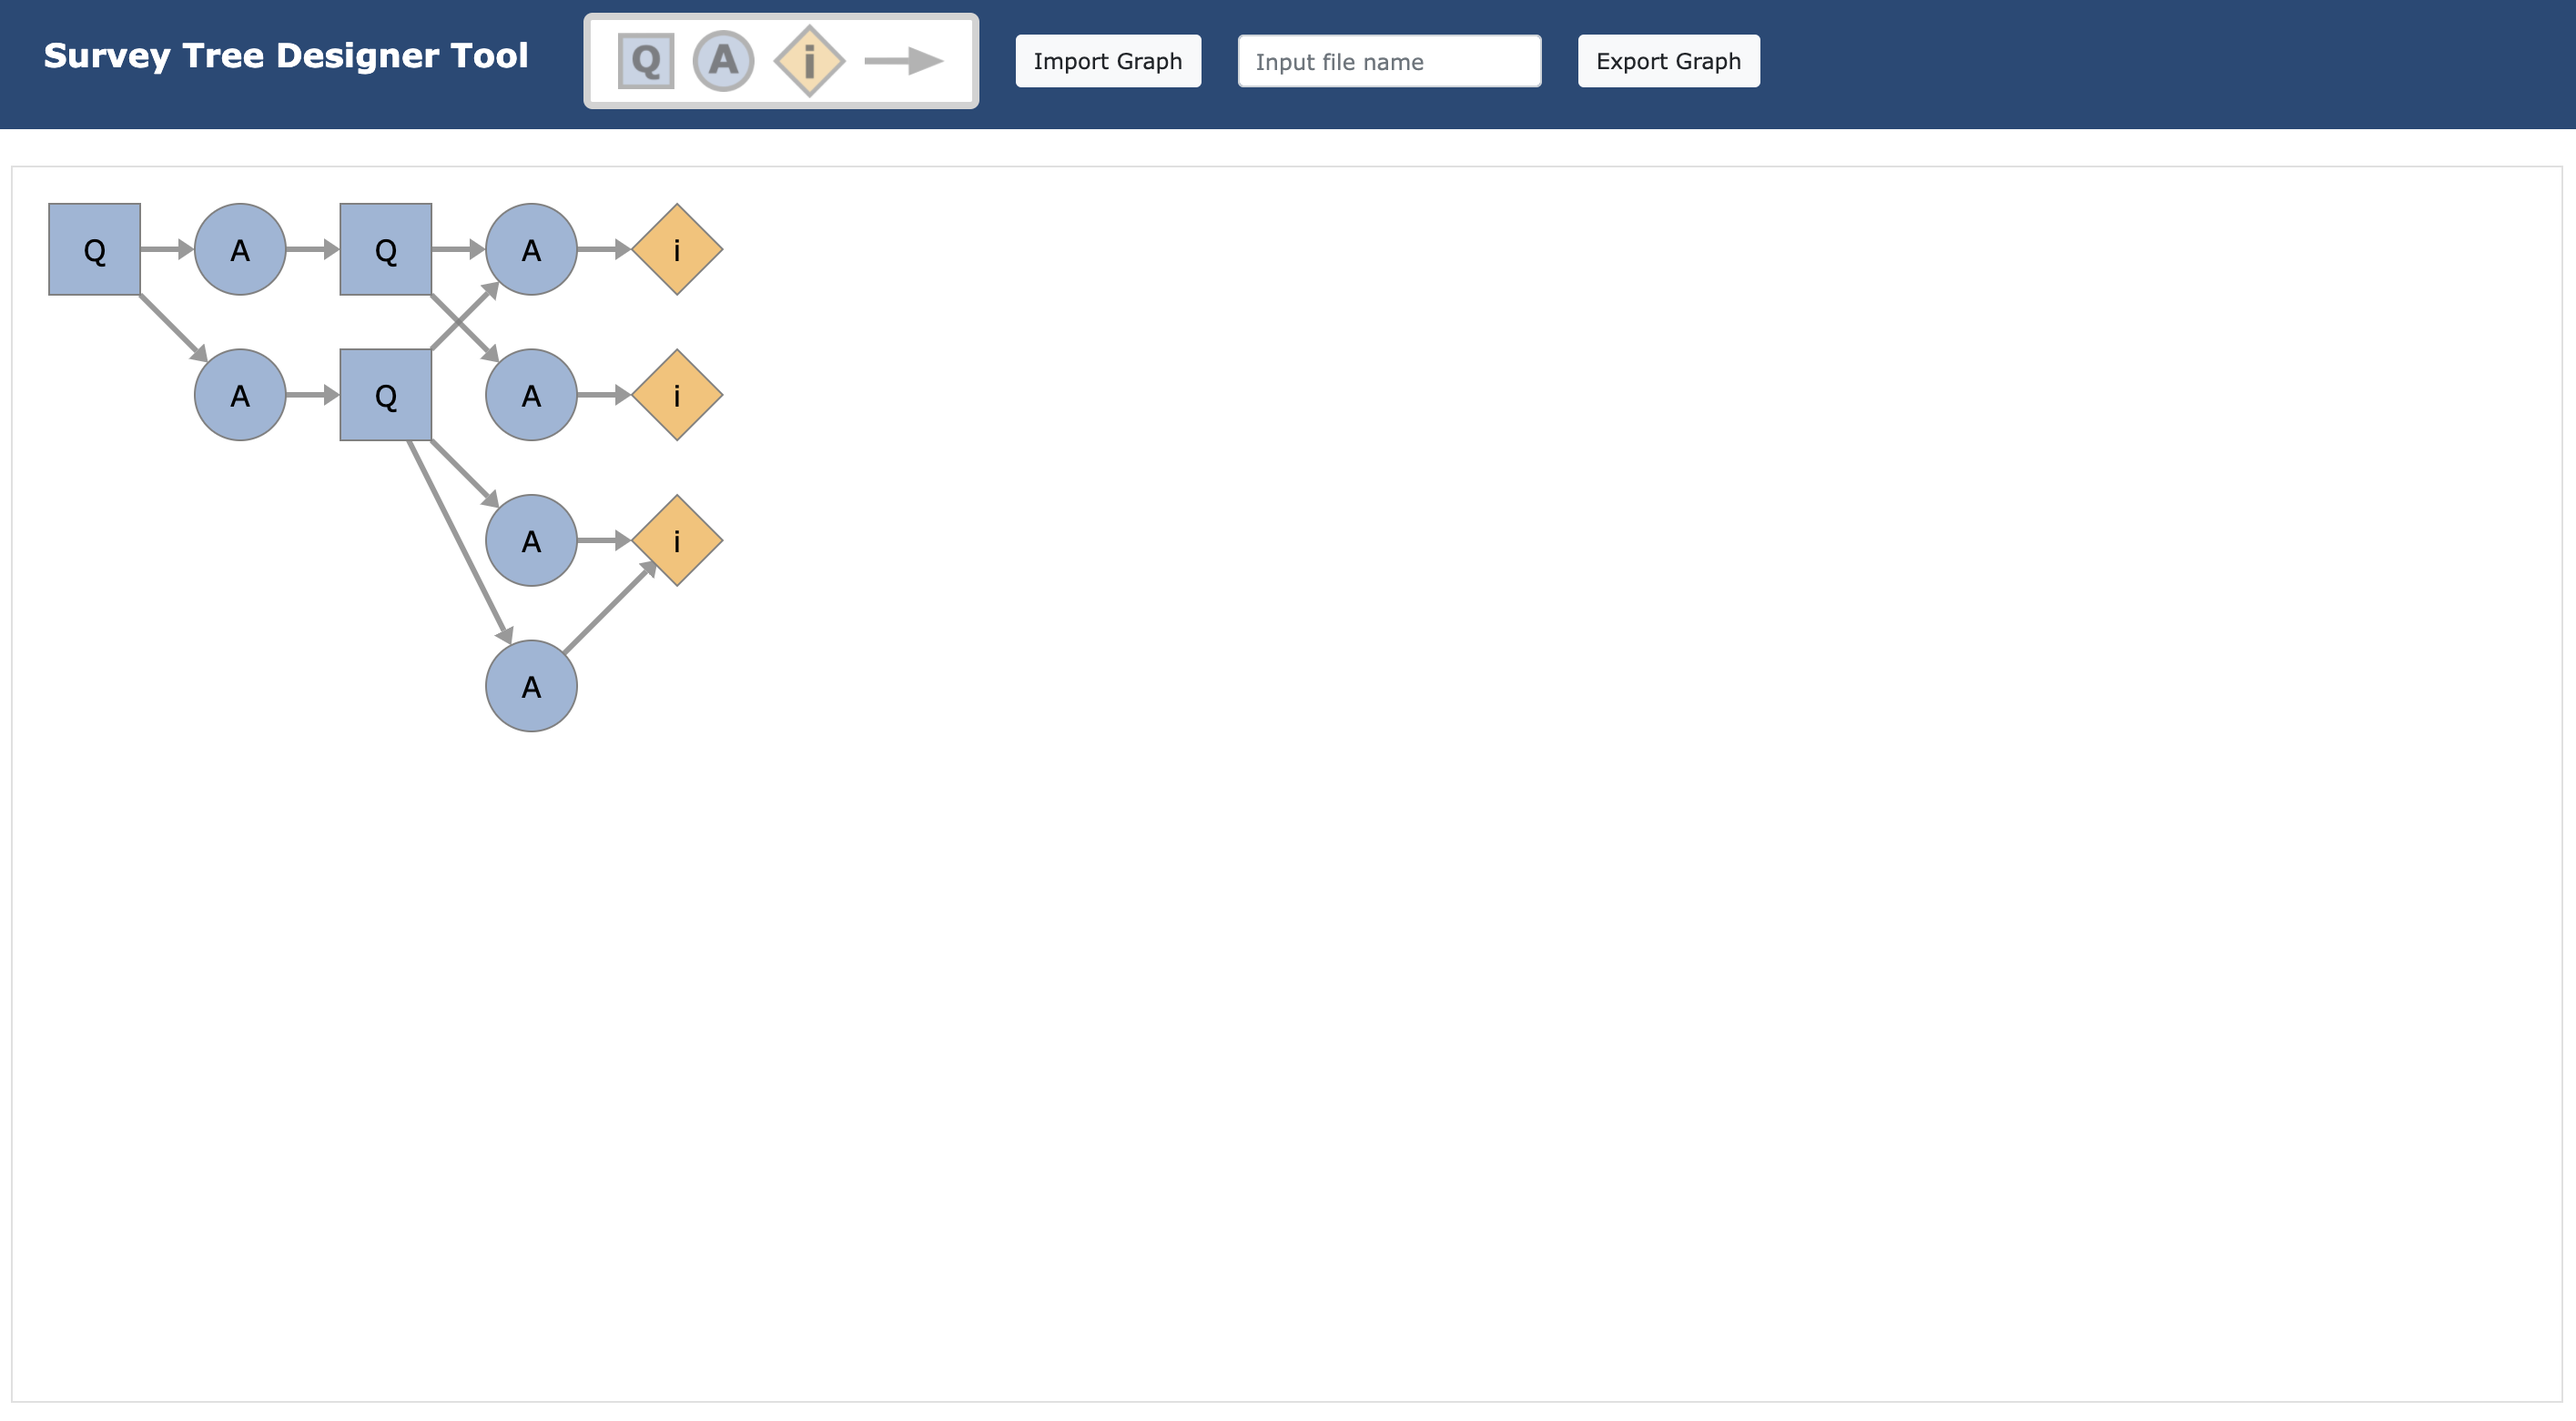
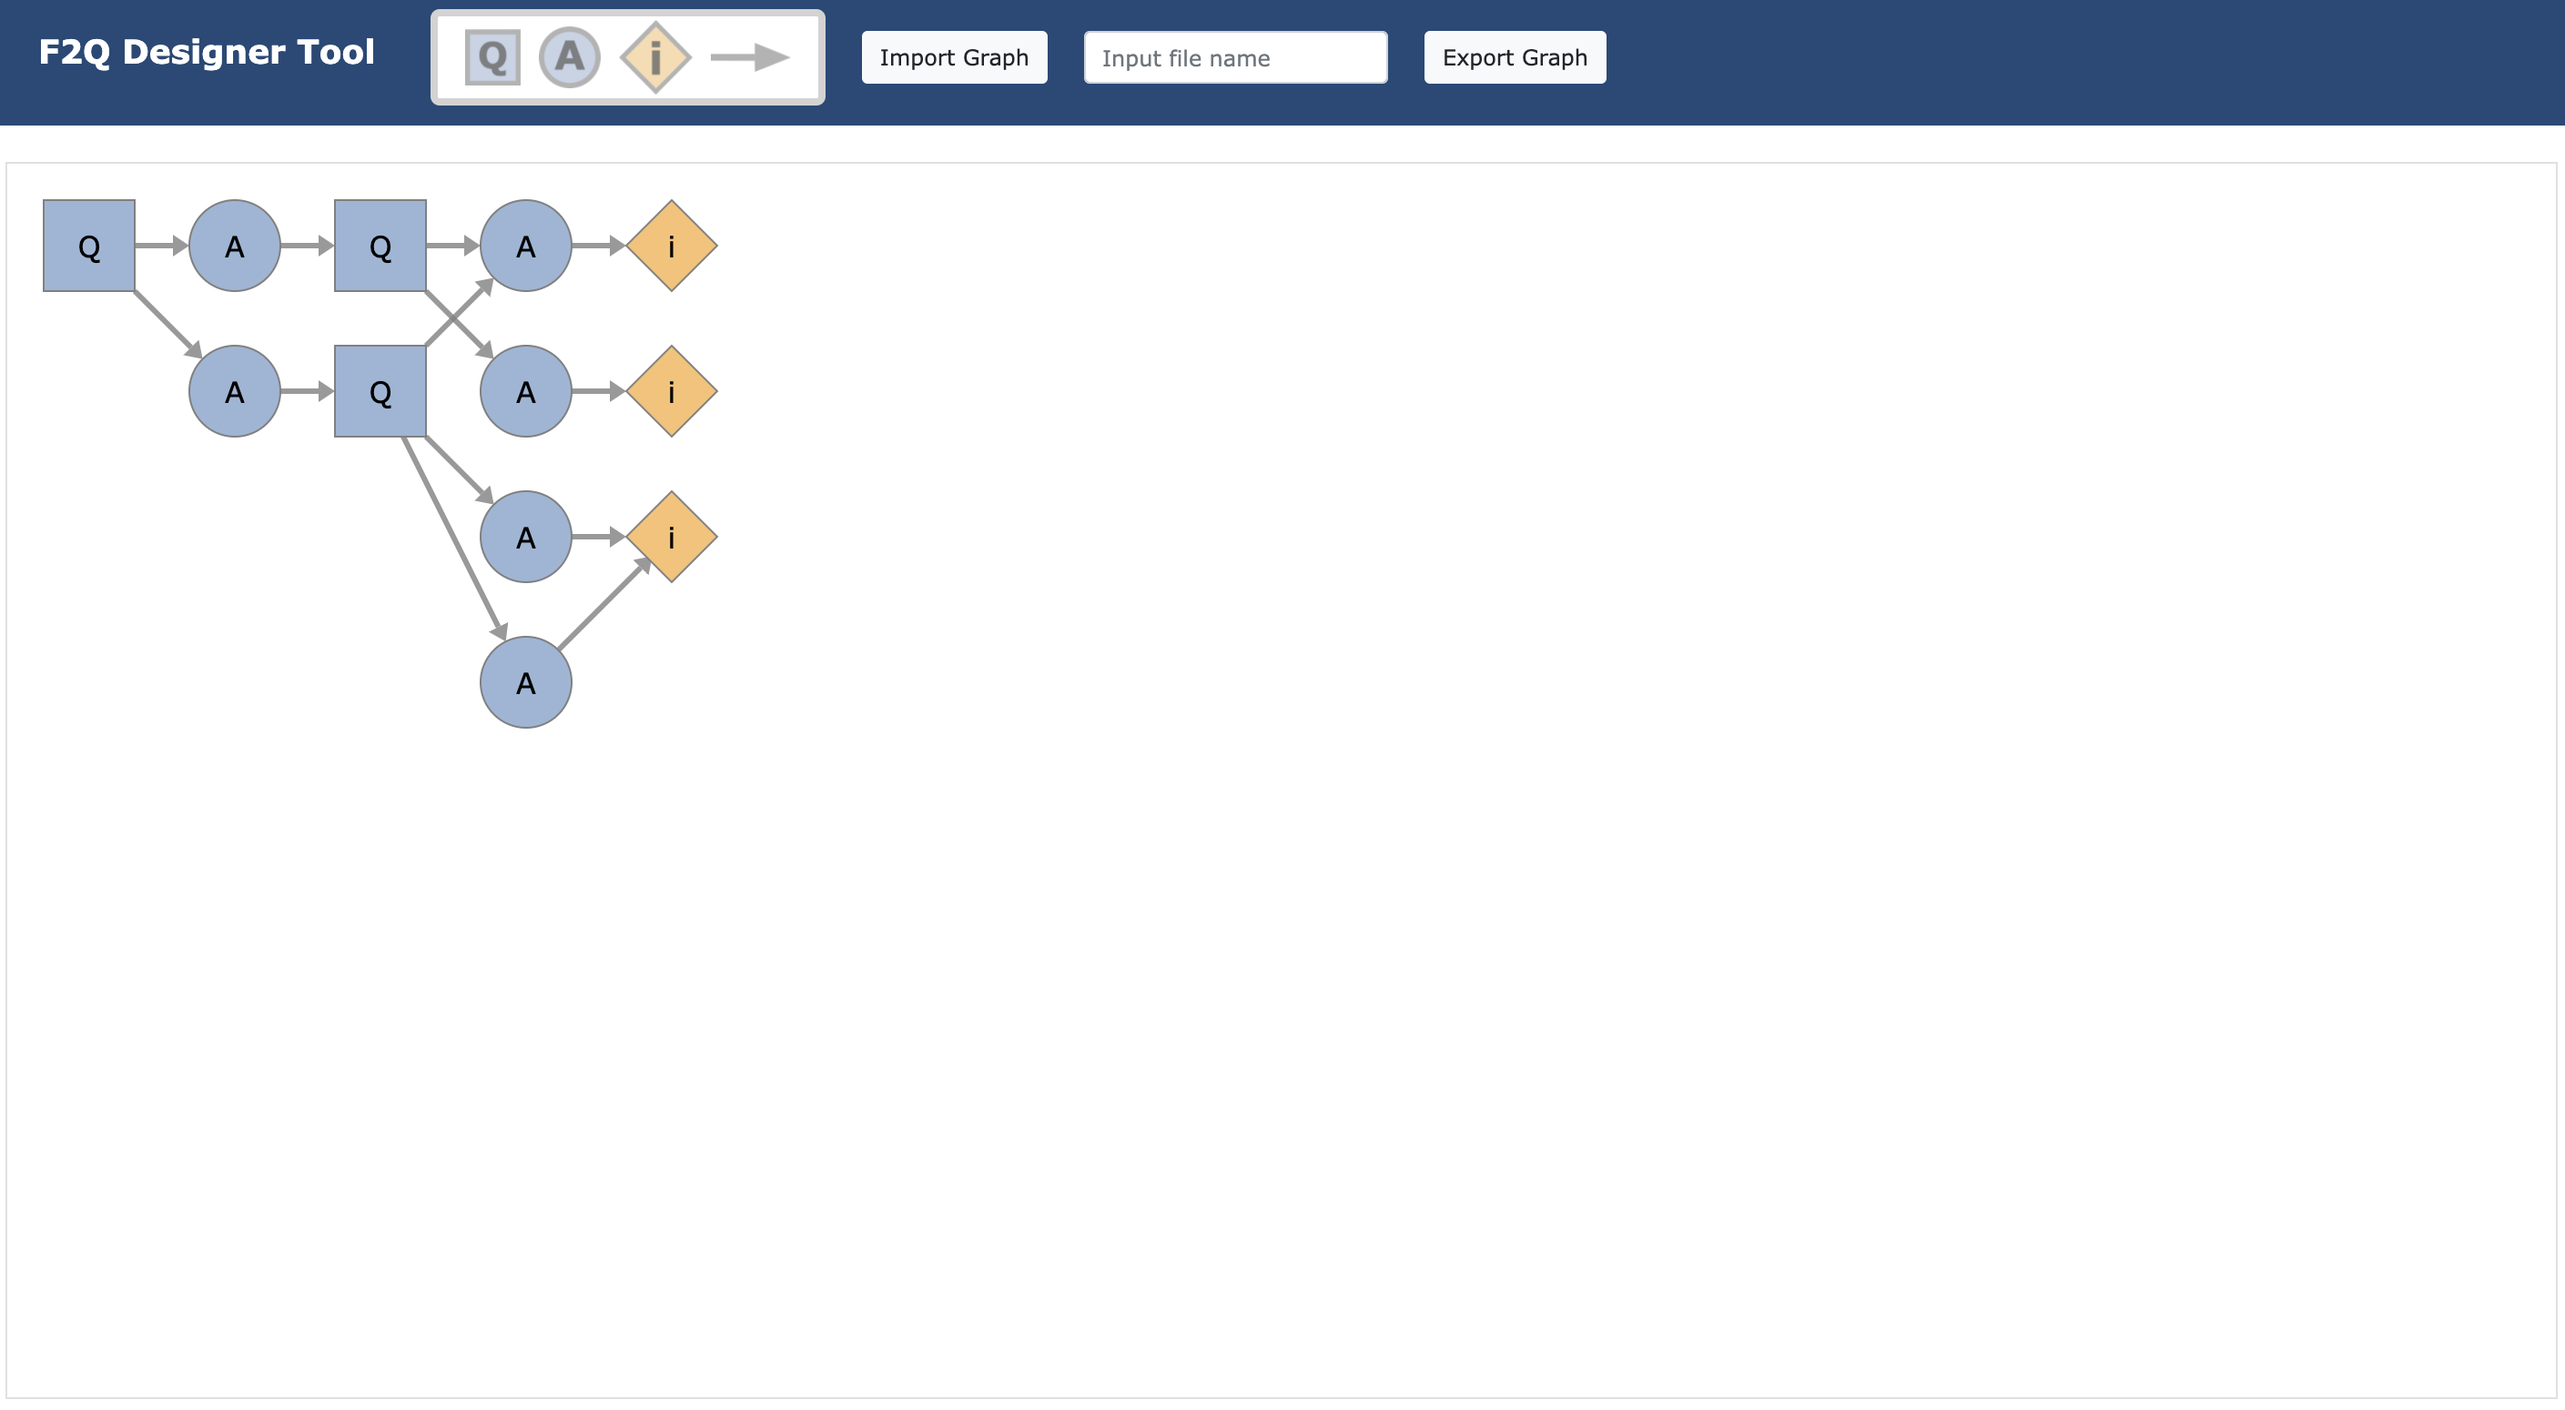
update interface

diff --git a/designer-tool/index.html b/designer-tool/index.html
@@ -4,13 +4,13 @@
 <head>
     <meta charset="UTF-8">
     <meta name="viewport" content="width=device-width, initial-scale=1, shrink-to-fit=no">
-    <title>Survey Tree Designer Tool</title>
+    <title>F2Q Designer Tool</title>
 </head>
 
 <body>
         <div id="header-group">
             <div  class="header-container">
-                <h1 id="header-text">Survey Tree Designer Tool</h1>
+                <h1 id="header-text">F2Q Designer Tool</h1>
             </div>
             <div id="selector-container" class="header-container"></div>
             <div class="header-container">
